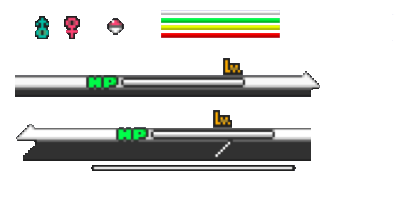
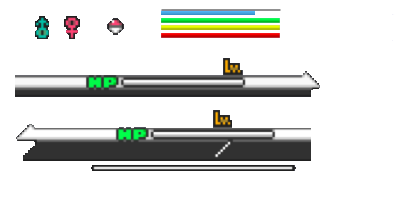
battling

Changed region(s): [[0.39, 0.03, 0.72, 0.09]]

diff --git a/12 isu/src/main/Battle.java b/12 isu/src/main/Battle.java
@@ -34,7 +34,7 @@ public class Battle extends JPanel {
 	boolean playerTurn;
 	
 	Pokemon[] player;
-	static Pokemon playerCurr;
+	Pokemon playerCurr;
 	Pokemon[] opponent;
 	Pokemon oppCurr;
 	
@@ -76,7 +76,12 @@ public class Battle extends JPanel {
 			battleStats[1] = loader.resize(battleStats[1], 415, 88);
 		}
 		catch(IOException e) {}
-		
+		try
+		{
+			battleStats[3] = loader.loadImage("res/battle/battle stats.png").getSubimage(161, 18, 119, 5);
+			battleStats[3] = loader.resize(battleStats[3], 165, 6);
+		}
+		catch(IOException e) {}
 		
 		try 
 		{
@@ -227,6 +232,18 @@ public class Battle extends JPanel {
 		
 	}
 	
+	public void drawHealth(Graphics2D g2)
+	{
+		if(playerCurr != null)
+		{
+			System.out.println(playerCurr.getCurHP());
+			System.out.println(playerCurr.getHPStat());
+			int width = battleStats[3].getWidth() * playerCurr.getCurHP() / playerCurr.getHPStat();
+			BufferedImage drawBar = battleStats[3].getSubimage(0, 0, width, battleStats[3].getHeight());
+			g2.drawImage(drawBar, 152, 144, this);
+		}
+	}
+	
 	public void paintComponent(Graphics g) {
 		Graphics2D g2 = (Graphics2D) g;
 		g2.drawImage(background, 0, 0, null);
@@ -236,6 +253,7 @@ public class Battle extends JPanel {
 		g2.fillRect(0, 586, 1080, 134);
 		// updateText(g2);
 		loadMons(g2);
+		drawHealth(g2);
 	}
 	
 	public void newBattle(Pokemon[] playerParty, Pokemon[] oppParty)
